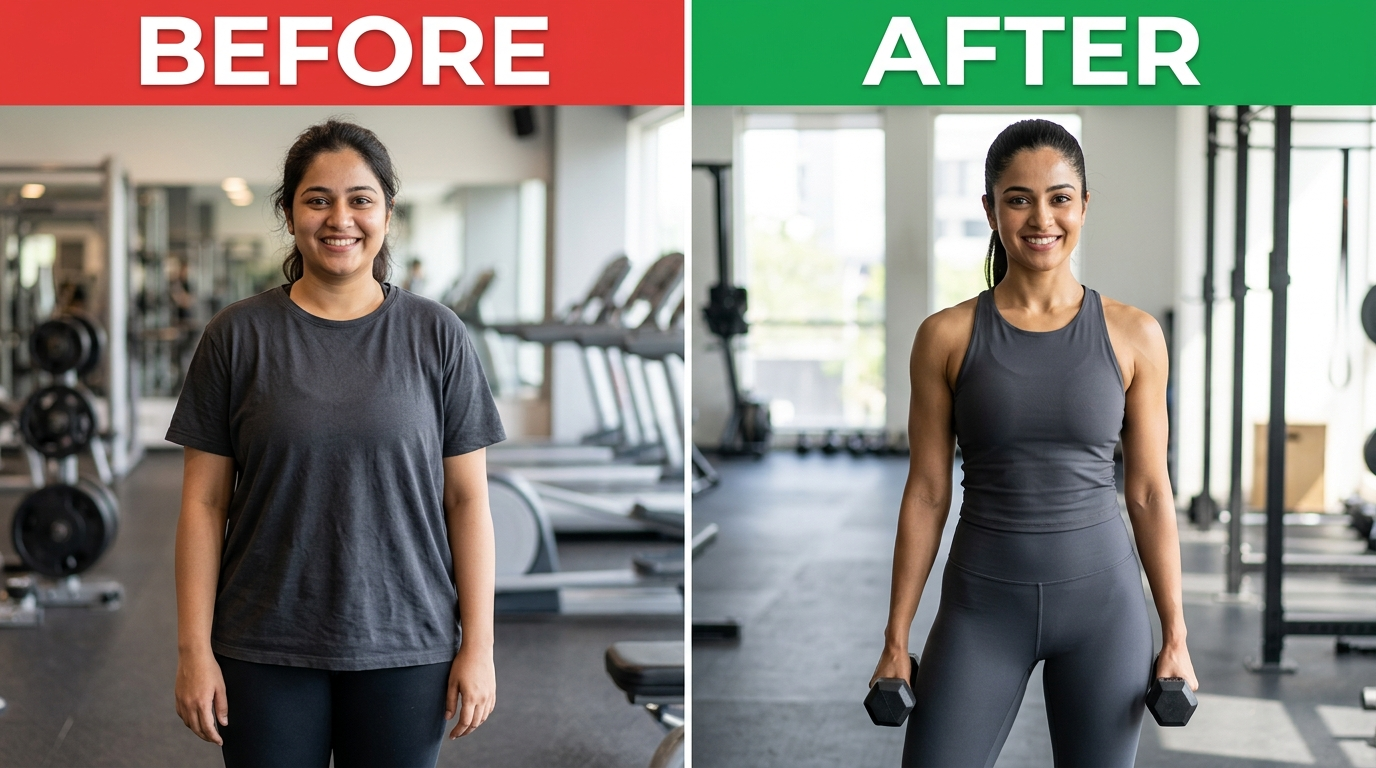
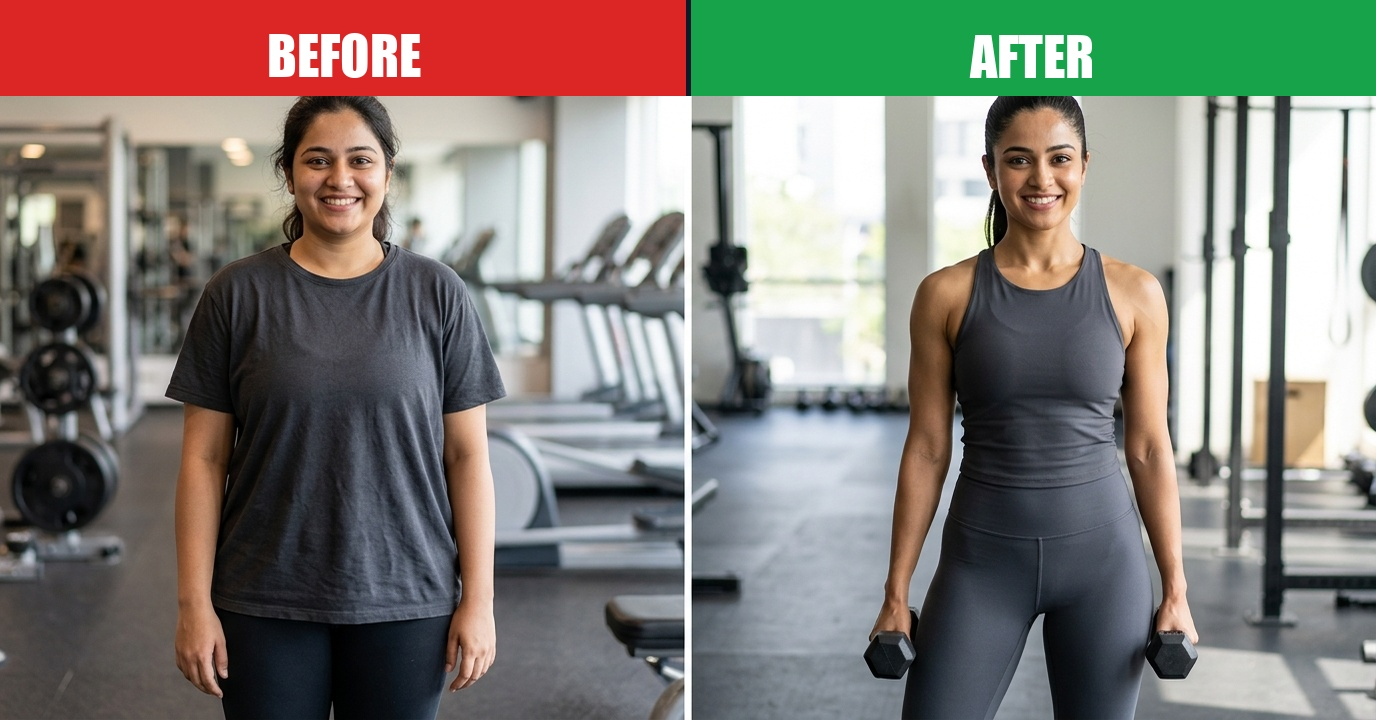
describe

diff --git a/frontend/src/pages/About.jsx b/frontend/src/pages/About.jsx
@@ -93,61 +93,77 @@ const About = () => {
 
       {/* TRAINERS LIST */}
       <section className="max-w-7xl mx-auto px-4 sm:px-6 lg:px-8">
-        <div className="mb-6 border-b border-slate-200 pb-3">
+        <div className="mb-10 text-center space-y-2">
           <span className="text-red-600 text-xs font-bold uppercase tracking-wider block">Gym Instructors</span>
-          <h2 className="text-2xl font-heading font-black text-slate-900 uppercase">CERTIFIED COACHES</h2>
+          <h2 className="text-3xl sm:text-4xl font-heading font-black text-slate-900 uppercase tracking-tight">CERTIFIED COACHES</h2>
+          <div className="w-16 h-1 bg-red-600 mx-auto rounded-full"></div>
         </div>
 
-        <div className="grid grid-cols-1 md:grid-cols-3 gap-6">
+        <div className="max-w-6xl mx-auto grid grid-cols-1 md:grid-cols-3 gap-8 items-stretch">
           
-          <div className="bg-white border border-slate-200 rounded-md overflow-hidden p-4 space-y-3">
-            <div className="h-48 bg-slate-100 border border-slate-200 rounded-md overflow-hidden relative">
+          {/* Coach 1 */}
+          <div className="bg-white border border-slate-200 rounded-2xl overflow-hidden p-6 text-center space-y-4 shadow-sm hover:shadow-xl hover:border-red-500 transition-all duration-300 flex flex-col items-center justify-between group">
+            <div className="w-full h-64 sm:h-72 bg-slate-100 border border-slate-200 rounded-xl overflow-hidden relative shadow-inner">
               <img 
-                src="https://images.unsplash.com/photo-1567013127542-490d757e51fc?auto=format&fit=crop&w=600&q=80" 
+                src="/images/coach_alex_rivera.jpg" 
                 alt="Alex Rivera" 
-                className="w-full h-full object-cover" 
+                className="w-full h-full object-cover object-top group-hover:scale-105 transition-transform duration-500" 
               />
             </div>
-            <div className="space-y-1">
-              <h3 className="text-lg font-heading font-bold text-slate-900 uppercase">Alex Rivera</h3>
-              <p className="text-xs font-bold text-red-600 uppercase">Senior Strength Coach</p>
-              <p className="text-xs text-slate-600 leading-relaxed">
-                Specializes in barbell strength training, powerlifting form, and progressive overload.
-              </p>
+            <div className="space-y-2 w-full flex-grow flex flex-col justify-between">
+              <div>
+                <h3 className="text-xl font-heading font-extrabold text-slate-900 uppercase tracking-wide">Alex Rivera</h3>
+                <span className="inline-block bg-red-50 text-red-600 border border-red-200 px-3 py-1 rounded-full text-xs font-bold uppercase tracking-wider my-2">
+                  Senior Strength Coach
+                </span>
+                <p className="text-xs text-slate-600 leading-relaxed max-w-xs mx-auto">
+                  Specializes in barbell strength training, powerlifting form, and progressive overload.
+                </p>
+              </div>
             </div>
           </div>
 
-          <div className="bg-white border border-slate-200 rounded-md overflow-hidden p-4 space-y-3">
-            <div className="h-48 bg-slate-100 border border-slate-200 rounded-md overflow-hidden relative">
+          {/* Coach 2 */}
+          <div className="bg-white border border-slate-200 rounded-2xl overflow-hidden p-6 text-center space-y-4 shadow-sm hover:shadow-xl hover:border-red-500 transition-all duration-300 flex flex-col items-center justify-between group">
+            <div className="w-full h-64 sm:h-72 bg-slate-100 border border-slate-200 rounded-xl overflow-hidden relative shadow-inner">
               <img 
-                src="https://images.unsplash.com/photo-1571019613454-1cb2f99b2d8b?auto=format&fit=crop&w=600&q=80" 
+                src="/images/coach_priya_sharma.jpg" 
                 alt="Priya Sharma" 
-                className="w-full h-full object-cover" 
+                className="w-full h-full object-cover object-top group-hover:scale-105 transition-transform duration-500" 
               />
             </div>
-            <div className="space-y-1">
-              <h3 className="text-lg font-heading font-bold text-slate-900 uppercase">Priya Sharma</h3>
-              <p className="text-xs font-bold text-red-600 uppercase">HIIT & Conditioning Specialist</p>
-              <p className="text-xs text-slate-600 leading-relaxed">
-                Leads group cardio sessions, bodyweight conditioning, and endurance training.
-              </p>
+            <div className="space-y-2 w-full flex-grow flex flex-col justify-between">
+              <div>
+                <h3 className="text-xl font-heading font-extrabold text-slate-900 uppercase tracking-wide">Priya Sharma</h3>
+                <span className="inline-block bg-red-50 text-red-600 border border-red-200 px-3 py-1 rounded-full text-xs font-bold uppercase tracking-wider my-2">
+                  HIIT & Conditioning Specialist
+                </span>
+                <p className="text-xs text-slate-600 leading-relaxed max-w-xs mx-auto">
+                  Leads group cardio sessions, bodyweight conditioning, and endurance training.
+                </p>
+              </div>
             </div>
           </div>
 
-          <div className="bg-white border border-slate-200 rounded-md overflow-hidden p-4 space-y-3">
-            <div className="h-48 bg-slate-100 border border-slate-200 rounded-md overflow-hidden relative">
+          {/* Coach 3 */}
+          <div className="bg-white border border-slate-200 rounded-2xl overflow-hidden p-6 text-center space-y-4 shadow-sm hover:shadow-xl hover:border-red-500 transition-all duration-300 flex flex-col items-center justify-between group">
+            <div className="w-full h-64 sm:h-72 bg-slate-100 border border-slate-200 rounded-xl overflow-hidden relative shadow-inner">
               <img 
-                src="https://images.unsplash.com/photo-1534367507873-d2d7e24c797f?auto=format&fit=crop&w=600&q=80" 
+                src="/images/coach_marcus_vance.jpg" 
                 alt="Marcus Vance" 
-                className="w-full h-full object-cover" 
+                className="w-full h-full object-cover object-top group-hover:scale-105 transition-transform duration-500" 
               />
             </div>
-            <div className="space-y-1">
-              <h3 className="text-lg font-heading font-bold text-slate-900 uppercase">Marcus Vance</h3>
-              <p className="text-xs font-bold text-red-600 uppercase">Bodybuilding & Hypertrophy</p>
-              <p className="text-xs text-slate-600 leading-relaxed">
-                Focuses on muscle hypertrophy, diet structuring, and customized gym routines.
-              </p>
+            <div className="space-y-2 w-full flex-grow flex flex-col justify-between">
+              <div>
+                <h3 className="text-xl font-heading font-extrabold text-slate-900 uppercase tracking-wide">Marcus Vance</h3>
+                <span className="inline-block bg-red-50 text-red-600 border border-red-200 px-3 py-1 rounded-full text-xs font-bold uppercase tracking-wider my-2">
+                  Bodybuilding & Hypertrophy
+                </span>
+                <p className="text-xs text-slate-600 leading-relaxed max-w-xs mx-auto">
+                  Focuses on muscle hypertrophy, diet structuring, and customized gym routines.
+                </p>
+              </div>
             </div>
           </div>
 

diff --git a/frontend/src/pages/Testimonials.jsx b/frontend/src/pages/Testimonials.jsx
@@ -148,6 +148,116 @@ const Testimonials = () => {
         </div>
       </section>
 
+      {/* BEFORE & AFTER TRANSFORMATION STORIES WITH PHOTOS */}
+      <section className="max-w-7xl mx-auto px-4 sm:px-6 lg:px-8 pt-4 pb-8">
+        <div className="mb-6 border-b border-slate-200 pb-3 flex items-center justify-between">
+          <div>
+            <span className="text-orange-600 text-xs font-bold uppercase tracking-wider block">Transformation Results</span>
+            <h2 className="text-2xl font-heading font-black text-slate-900 uppercase">MEMBER TRANSFORMATION STORIES</h2>
+          </div>
+          <span className="text-xs text-slate-500 font-mono bg-white px-3 py-1 rounded border border-slate-200 font-semibold">
+            Real Results
+          </span>
+        </div>
+
+        <div className="grid grid-cols-1 md:grid-cols-3 gap-6">
+          
+          <div className="bg-white border border-slate-200 rounded-xl overflow-hidden p-5 space-y-3 shadow-xs hover:border-orange-500 transition-colors group">
+            <div className="h-56 bg-slate-100 rounded-lg overflow-hidden border border-slate-200 relative">
+              <img 
+                src="/images/client_transform_rahul.jpg" 
+                alt="Siddharth Menon Transformation" 
+                className="w-full h-full object-cover group-hover:scale-105 transition-transform duration-500" 
+              />
+            </div>
+            <div className="space-y-1">
+              <h3 className="text-lg font-heading font-bold text-slate-900 uppercase">Siddharth Menon</h3>
+              <p className="text-xs font-bold text-orange-600 uppercase">12-Week Fat Loss & Strength Shred</p>
+              <p className="text-xs text-slate-600 leading-relaxed italic">
+                "Dropped 16kg of body fat while adding 40kg to my deadlift through progressive overload."
+              </p>
+            </div>
+            <div className="grid grid-cols-3 gap-2 bg-slate-50 p-2.5 rounded-md border border-slate-200 text-center text-xs">
+              <div>
+                <span className="block text-[10px] text-slate-500 uppercase font-semibold">Weight</span>
+                <strong className="text-slate-900 text-xs font-sans">96&rarr;80kg</strong>
+              </div>
+              <div>
+                <span className="block text-[10px] text-slate-500 uppercase font-semibold">Body Fat</span>
+                <strong className="text-slate-900 text-xs font-sans">28%&rarr;14%</strong>
+              </div>
+              <div>
+                <span className="block text-[10px] text-slate-500 uppercase font-semibold">Time</span>
+                <strong className="text-orange-600 text-xs font-sans">12 Wks</strong>
+              </div>
+            </div>
+          </div>
+
+          <div className="bg-white border border-slate-200 rounded-xl overflow-hidden p-5 space-y-3 shadow-xs hover:border-orange-500 transition-colors group">
+            <div className="h-56 bg-slate-100 rounded-lg overflow-hidden border border-slate-200 relative">
+              <img 
+                src="/images/client_transform_ananya.jpg" 
+                alt="Pooja Deshmukh Transformation" 
+                className="w-full h-full object-cover group-hover:scale-105 transition-transform duration-500" 
+              />
+            </div>
+            <div className="space-y-1">
+              <h3 className="text-lg font-heading font-bold text-slate-900 uppercase">Pooja Deshmukh</h3>
+              <p className="text-xs font-bold text-orange-600 uppercase">16-Week Athletic Body Recomp</p>
+              <p className="text-xs text-slate-600 leading-relaxed italic">
+                "Sculpted peak core strength, eliminated back pain, and built lean muscle definition."
+              </p>
+            </div>
+            <div className="grid grid-cols-3 gap-2 bg-slate-50 p-2.5 rounded-md border border-slate-200 text-center text-xs">
+              <div>
+                <span className="block text-[10px] text-slate-500 uppercase font-semibold">Weight</span>
+                <strong className="text-slate-900 text-xs font-sans">68&rarr;59kg</strong>
+              </div>
+              <div>
+                <span className="block text-[10px] text-slate-500 uppercase font-semibold">Squat PR</span>
+                <strong className="text-slate-900 text-xs font-sans">20&rarr;75kg</strong>
+              </div>
+              <div>
+                <span className="block text-[10px] text-slate-500 uppercase font-semibold">Time</span>
+                <strong className="text-orange-600 text-xs font-sans">16 Wks</strong>
+              </div>
+            </div>
+          </div>
+
+          <div className="bg-white border border-slate-200 rounded-xl overflow-hidden p-5 space-y-3 shadow-xs hover:border-orange-500 transition-colors group">
+            <div className="h-56 bg-slate-100 rounded-lg overflow-hidden border border-slate-200 relative">
+              <img 
+                src="/images/client_transform_karan.jpg" 
+                alt="Manish Kapoor Transformation" 
+                className="w-full h-full object-cover group-hover:scale-105 transition-transform duration-500" 
+              />
+            </div>
+            <div className="space-y-1">
+              <h3 className="text-lg font-heading font-bold text-slate-900 uppercase">Manish Kapoor</h3>
+              <p className="text-xs font-bold text-orange-600 uppercase">20-Week Lean Muscle Bulk</p>
+              <p className="text-xs text-slate-600 leading-relaxed italic">
+                "Went from a skinny frame to adding 8kg of solid muscle mass with targeted coaching."
+              </p>
+            </div>
+            <div className="grid grid-cols-3 gap-2 bg-slate-50 p-2.5 rounded-md border border-slate-200 text-center text-xs">
+              <div>
+                <span className="block text-[10px] text-slate-500 uppercase font-semibold">Weight</span>
+                <strong className="text-slate-900 text-xs font-sans">58&rarr;67kg</strong>
+              </div>
+              <div>
+                <span className="block text-[10px] text-slate-500 uppercase font-semibold">Bench PR</span>
+                <strong className="text-slate-900 text-xs font-sans">40&rarr;95kg</strong>
+              </div>
+              <div>
+                <span className="block text-[10px] text-slate-500 uppercase font-semibold">Time</span>
+                <strong className="text-orange-600 text-xs font-sans">20 Wks</strong>
+              </div>
+            </div>
+          </div>
+
+        </div>
+      </section>
+
     </div>
   );
 };

diff --git a/frontend/src/components/Footer.jsx b/frontend/src/components/Footer.jsx
@@ -1,6 +1,12 @@
 import React from 'react';
 import { Link } from 'react-router-dom';
-import { Dumbbell, MapPin, Phone, Mail, Clock, Instagram, Facebook, Twitter, Youtube, ShieldCheck } from 'lucide-react';
+import { Dumbbell, MapPin, Phone, Mail, Clock, Instagram, Facebook, Youtube, ShieldCheck } from 'lucide-react';
+
+const WhatsAppIcon = ({ className }) => (
+  <svg className={className} fill="currentColor" viewBox="0 0 24 24">
+    <path d="M17.472 14.382c-.297-.149-1.758-.867-2.03-.967-.273-.099-.471-.148-.67.15-.197.297-.767.966-.94 1.164-.173.199-.347.223-.644.075-.297-.15-1.255-.463-2.39-1.475-.883-.788-1.48-1.761-1.653-2.059-.173-.297-.018-.458.13-.606.134-.133.298-.347.446-.52.149-.174.198-.298.298-.497.099-.198.05-.371-.025-.52-.075-.149-.669-1.612-.916-2.207-.242-.579-.487-.501-.669-.51l-.57-.01c-.198 0-.52.074-.792.372s-1.04 1.016-1.04 2.479 1.065 2.876 1.213 3.074c.149.198 2.095 3.2 5.076 4.487.709.306 1.263.489 1.694.626.712.226 1.36.194 1.872.118.571-.085 1.758-.719 2.006-1.413.248-.694.248-1.289.173-1.413-.074-.124-.272-.198-.57-.347m-5.421 7.461c-1.92 0-3.692-.51-5.234-1.397l-5.817 1.526 1.553-5.673c-.971-1.603-1.536-3.488-1.536-5.503 0-5.625 4.576-10.201 10.201-10.201 5.626 0 10.202 4.576 10.202 10.201 0 5.626-4.576 10.201-10.169 10.201m0-18.401c-4.53 0-8.201 3.672-8.201 8.201 0 1.794.574 3.456 1.554 4.819l-.992 3.626 3.714-.974c1.317.868 2.888 1.378 4.575 1.378 4.53 0 8.201-3.672 8.201-8.201.001-4.529-3.67-8.201-8.201-8.201z"/>
+  </svg>
+);
 
 const Footer = () => {
   return (
@@ -28,8 +34,8 @@ const Footer = () => {
               <a href="https://facebook.com" target="_blank" rel="noopener noreferrer" title="Facebook" className="p-2.5 bg-gym-card hover:bg-gym-orange hover:text-white rounded-lg text-slate-400 transition-colors">
                 <Facebook className="w-4 h-4" />
               </a>
-              <a href="https://twitter.com" target="_blank" rel="noopener noreferrer" title="Twitter" className="p-2.5 bg-gym-card hover:bg-gym-orange hover:text-white rounded-lg text-slate-400 transition-colors">
-                <Twitter className="w-4 h-4" />
+              <a href="https://wa.me/919876543210" target="_blank" rel="noopener noreferrer" title="WhatsApp" className="p-2.5 bg-gym-card hover:bg-emerald-600 hover:text-white rounded-lg text-slate-400 transition-colors">
+                <WhatsAppIcon className="w-4 h-4" />
               </a>
               <a href="https://youtube.com" target="_blank" rel="noopener noreferrer" title="YouTube Channel" className="p-2.5 bg-gym-card hover:bg-gym-orange hover:text-white rounded-lg text-slate-400 transition-colors">
                 <Youtube className="w-4 h-4" />
